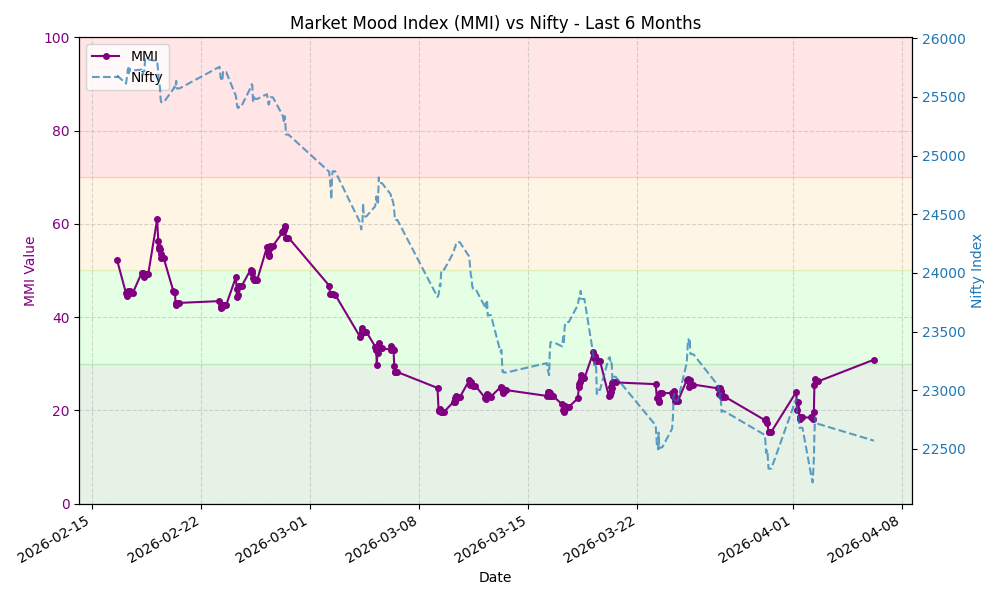
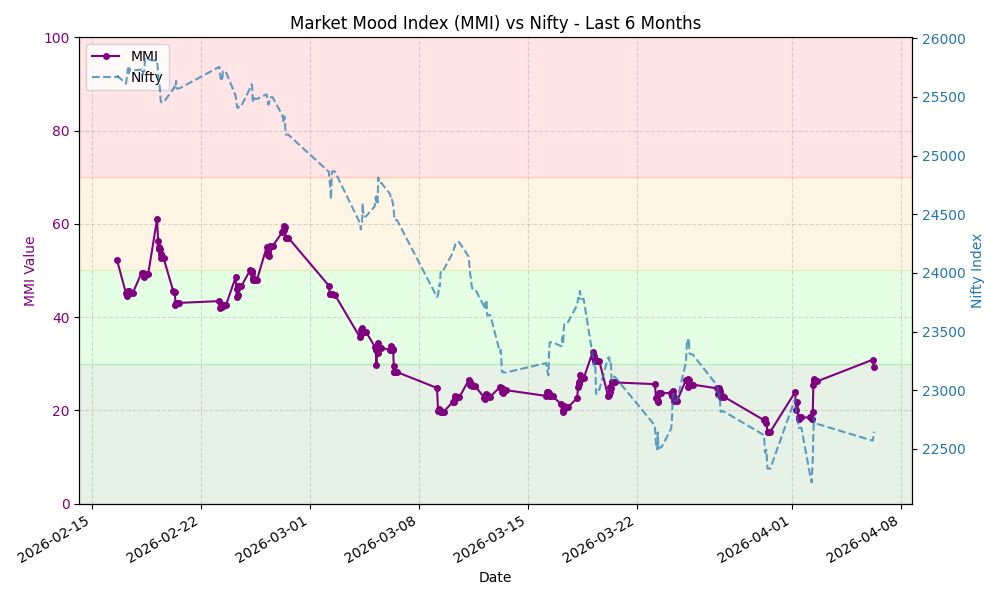
Update MMI data and chart

diff --git a/README.md b/README.md
@@ -7,8 +7,8 @@ This repository automatically fetches the MMI value, stores the history, and gen
 
 ## Latest MMI Value
 
-**30.87** - **Fear**
-<small>Last Updated: 2026-04-06 04:33 UTC</small>
+**29.30** - **Extreme Fear**
+<small>Last Updated: 2026-04-06 06:21 UTC</small>
 
 ## MMI Trend (Last 30 Days)
 
